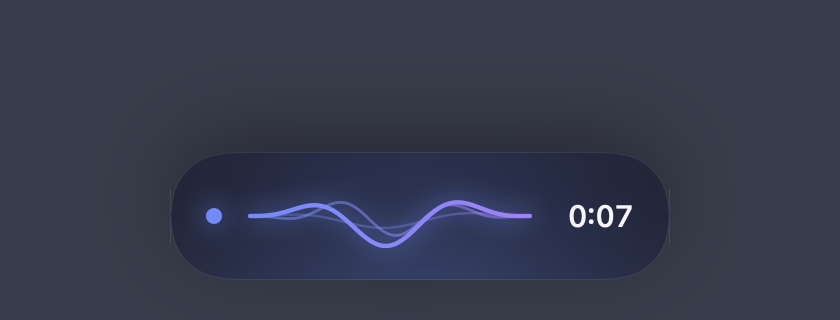
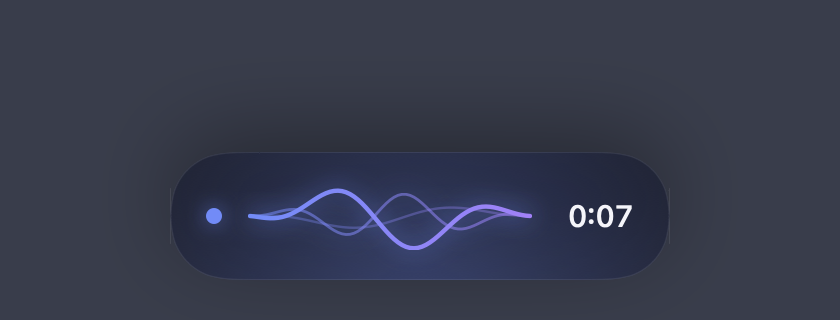
Let the waves swell with each syllable
They averaged the last 0.3 s of loudness, which flattened speech into a
small ripple. They now follow the louder of the last two levels, through
a curve that lifts normal speech to most of the height, with a quicker
spring and a wider envelope. The debug log records each recording's level
median, 90th percentile and maximum, so the curve can be tuned from real
numbers.

Changed region(s): [[0.3095, 0.5938, 0.619, 0.7812], [0.4643, 0.5938, 0.4952, 0.625]]

diff --git a/app/TalkToMe/AudioRecorder.swift b/app/TalkToMe/AudioRecorder.swift
@@ -27,6 +27,8 @@ final class AudioRecorder: NSObject, AVCaptureAudioDataOutputSampleBufferDelegat
     private var pcm = Data()
     private var peak: Float = 0
     private var buffers = 0
+    /// Every waveform level of this recording, for the debug log.
+    private var levelLog: [Float] = []
     private var onset = SoundOnset()
     private var meter = LevelMeter()
     private var onSound: (@Sendable () -> Void)?
@@ -120,6 +122,7 @@ final class AudioRecorder: NSObject, AVCaptureAudioDataOutputSampleBufferDelegat
             pcm.removeAll(keepingCapacity: true)
             peak = 0
             buffers = 0
+            levelLog.removeAll(keepingCapacity: true)
             onset = SoundOnset()
             meter = LevelMeter()
             self.onSound = onSound
@@ -146,11 +149,15 @@ final class AudioRecorder: NSObject, AVCaptureAudioDataOutputSampleBufferDelegat
         observer = nil
         // Take in any buffer still on its way.
         audioQueue.sync {}
-        let (data, buffers, peak) = lock.withLock {
+        let (data, buffers, peak, levels) = lock.withLock {
             onSound = nil
-            return (pcm, self.buffers, self.peak)
+            return (pcm, self.buffers, self.peak, levelLog.sorted())
         }
         EventLog.write("recorder stop: \(buffers) buffers, peak \(peak), \(data.count) bytes")
+        if !levels.isEmpty {
+            let at = { (q: Double) in String(format: "%.2f", levels[Int(Double(levels.count - 1) * q)]) }
+            EventLog.write("levels: median \(at(0.5)), p90 \(at(0.9)), max \(at(1))")
+        }
         return data
     }
 
@@ -182,6 +189,7 @@ final class AudioRecorder: NSObject, AVCaptureAudioDataOutputSampleBufferDelegat
             buffers += 1
             peak = max(peak, loudest)
             let first = onset.isFirstSound(peak: loudest, seconds: Double(count) / Self.sampleRate)
+            levelLog += levels
             return (first ? onSound : nil, levels)
         }
         firstSound?()

diff --git a/app/TalkToMe/RecordingPill.swift b/app/TalkToMe/RecordingPill.swift
@@ -193,19 +193,17 @@ struct PillView: View {
 struct Waveform: View {
     let levels: [Float]
 
-    /// The last 0.3 s of loudness, weighted to the newest, so the wave
-    /// follows the voice without twitching at every level.
+    /// The louder of the last two levels (0.2 s), so the wave rises on
+    /// each syllable instead of averaging it away.
     private var loudness: CGFloat {
-        let recent = levels.suffix(3)
-        guard !recent.isEmpty else { return 0 }
-        let weighted = recent.enumerated().reduce(Float(0)) { $0 + $1.element * Float($1.offset + 1) }
-        let weights = Float(recent.count * (recent.count + 1) / 2)
-        return CGFloat(weighted / weights)
+        CGFloat(levels.suffix(2).max() ?? 0)
     }
 
     var body: some View {
-        LiquidWave(amplitude: 0.08 + 0.92 * loudness, colors: [Palette.accent, Palette.accent2])
-            .animation(.smooth(duration: 0.3), value: loudness)
+        // The curve lifts normal speech (levels around 0.4 to 0.7) to most
+        // of the height; silence keeps a small ripple.
+        LiquidWave(amplitude: 0.1 + 0.9 * pow(loudness, 0.6), colors: [Palette.accent, Palette.accent2])
+            .animation(.spring(response: 0.2, dampingFraction: 0.75), value: loudness)
     }
 }
 
@@ -266,7 +264,7 @@ struct WaveLine: Shape {
         let steps = max(Int(rect.width / 2), 2)
         for step in 0...steps {
             let x = Double(step) / Double(steps)
-            let envelope = pow(sin(.pi * x), 2)
+            let envelope = pow(sin(.pi * x), 1.4)
             let y = mid - amplitude * (rect.height / 2 - 2) * envelope * sin(2 * .pi * cycles * x + phase)
             let point = CGPoint(x: rect.minX + rect.width * x, y: y)
             if step == 0 { path.move(to: point) } else { path.addLine(to: point) }
